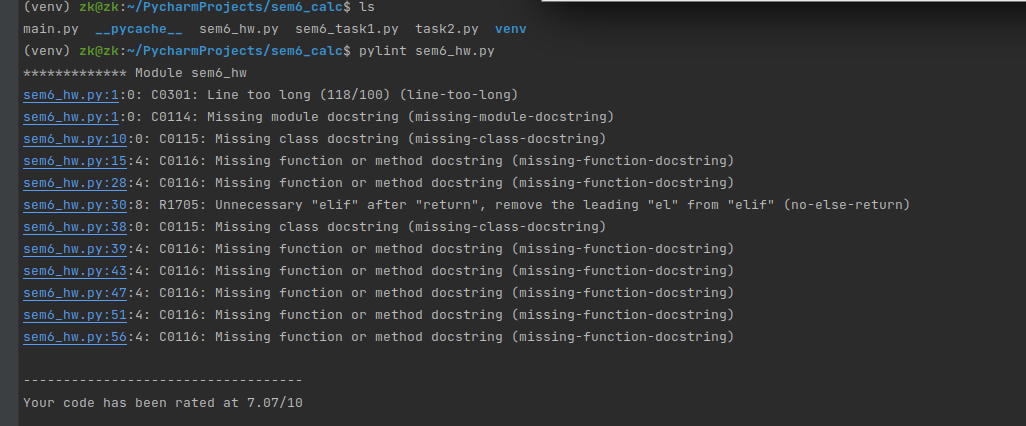
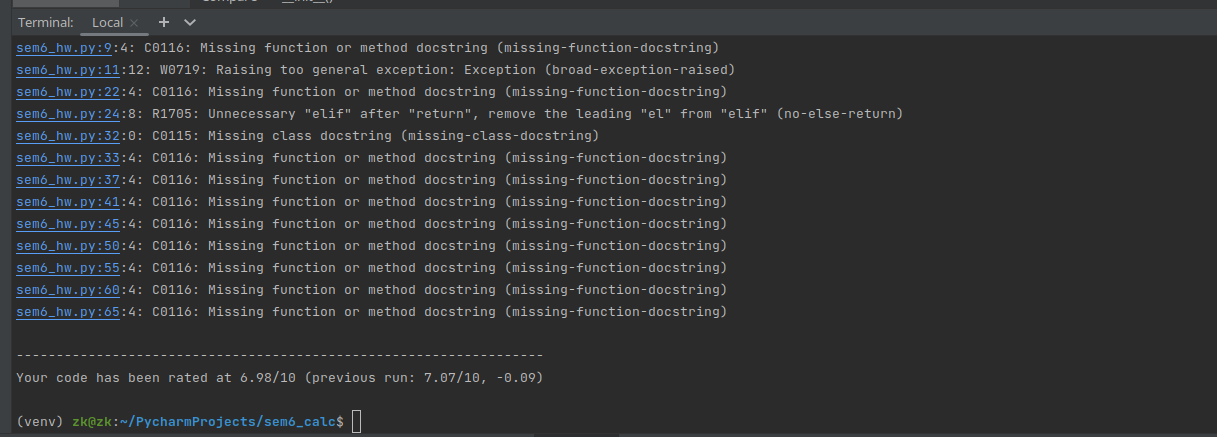
Unit test hw

Changed region(s): [[0.0, 0.0, 1.0, 0.8239], [0.0, 0.9155, 0.3119, 0.9765], [0.0, 0.8545, 0.4678, 0.885]]

diff --git a/sem6_hw.py b/sem6_hw.py
@@ -8,13 +8,13 @@ class Compare:
 
     def average_lists(self) -> tuple:
         if not self.nums_list1 or not self.nums_list2:
-            return 0
+            raise Exception('Empty list')
         if not isinstance(self.nums_list1, list) \
                 or not isinstance(self.nums_list2, list):
             raise TypeError('Not list')
         list_all = [*self.nums_list1, *self.nums_list2]
         if not all(map(lambda i: isinstance(i, int), list_all)):
-            raise ValueError("Value Error")
+            raise ValueError('Value Error')
         av_nums_list1 = sum(self.nums_list1) / len(self.nums_list1)
         av_nums_list2 = sum(self.nums_list2) / len(self.nums_list2)
         return av_nums_list1, av_nums_list2
@@ -52,6 +52,11 @@ class TestCompare:
         with pytest.raises(TypeError):
             list_av.compare_lists()
 
+    def test_average_type_three(self):
+        list_av = Compare([], [])
+        with pytest.raises(Exception):
+            list_av.compare_lists()
+
     def test_average_value_one(self):
         list_av = Compare(["1", "1", "1", "1"], [1, 1, 1, 1])
         with pytest.raises(ValueError):
@@ -61,3 +66,5 @@ class TestCompare:
         list_av = Compare([1, 1, 1, 1], ["1", "1", "1", "1"])
         with pytest.raises(ValueError):
             list_av.compare_lists()
+
+

diff --git a/report.md b/report.md
@@ -1,0 +1,31 @@
+# Отчёт
+
+
+1. Код программы https://github.com/Kustovweb/Unit_test_result/blob/master/sem6_hw.py
+
+
+Код тестов https://github.com/Kustovweb/Unit_test_result/blob/master/sem6_hw.py
+
+
+Отчет pylint https://github.com/Kustovweb/Unit_test_result/blob/master/sem6_test_png/pylint.png
+
+
+Отчет о покрытии тестами https://github.com/Kustovweb/Unit_test_result/blob/master/sem6_test_png/coverage.png
+
+
+2. Объяснение того, какие сценарии покрыты тестами и почему вы выбрали именно эти сценарии.
+
+test_average_value_two
+test_result_two
+test_result_three
+- Проверка с уже известными значениями, позволяет понять что программа работает как задумывалось
+
+
+test_average_value_one
+test_average_value_two
+test_average_type_one
+test_average_type_two
+test_average_type_three
+ - Проверки на неверный тип значения в списках, а также пустой список(списки), либо значение не является списком позволяет обезопасить программу от сбоев или непредвиденной работы.
+ - Проверка исключений, которые прокидывает программа, позволяет понять какой тип исключения генеририрует часть программы.
+
